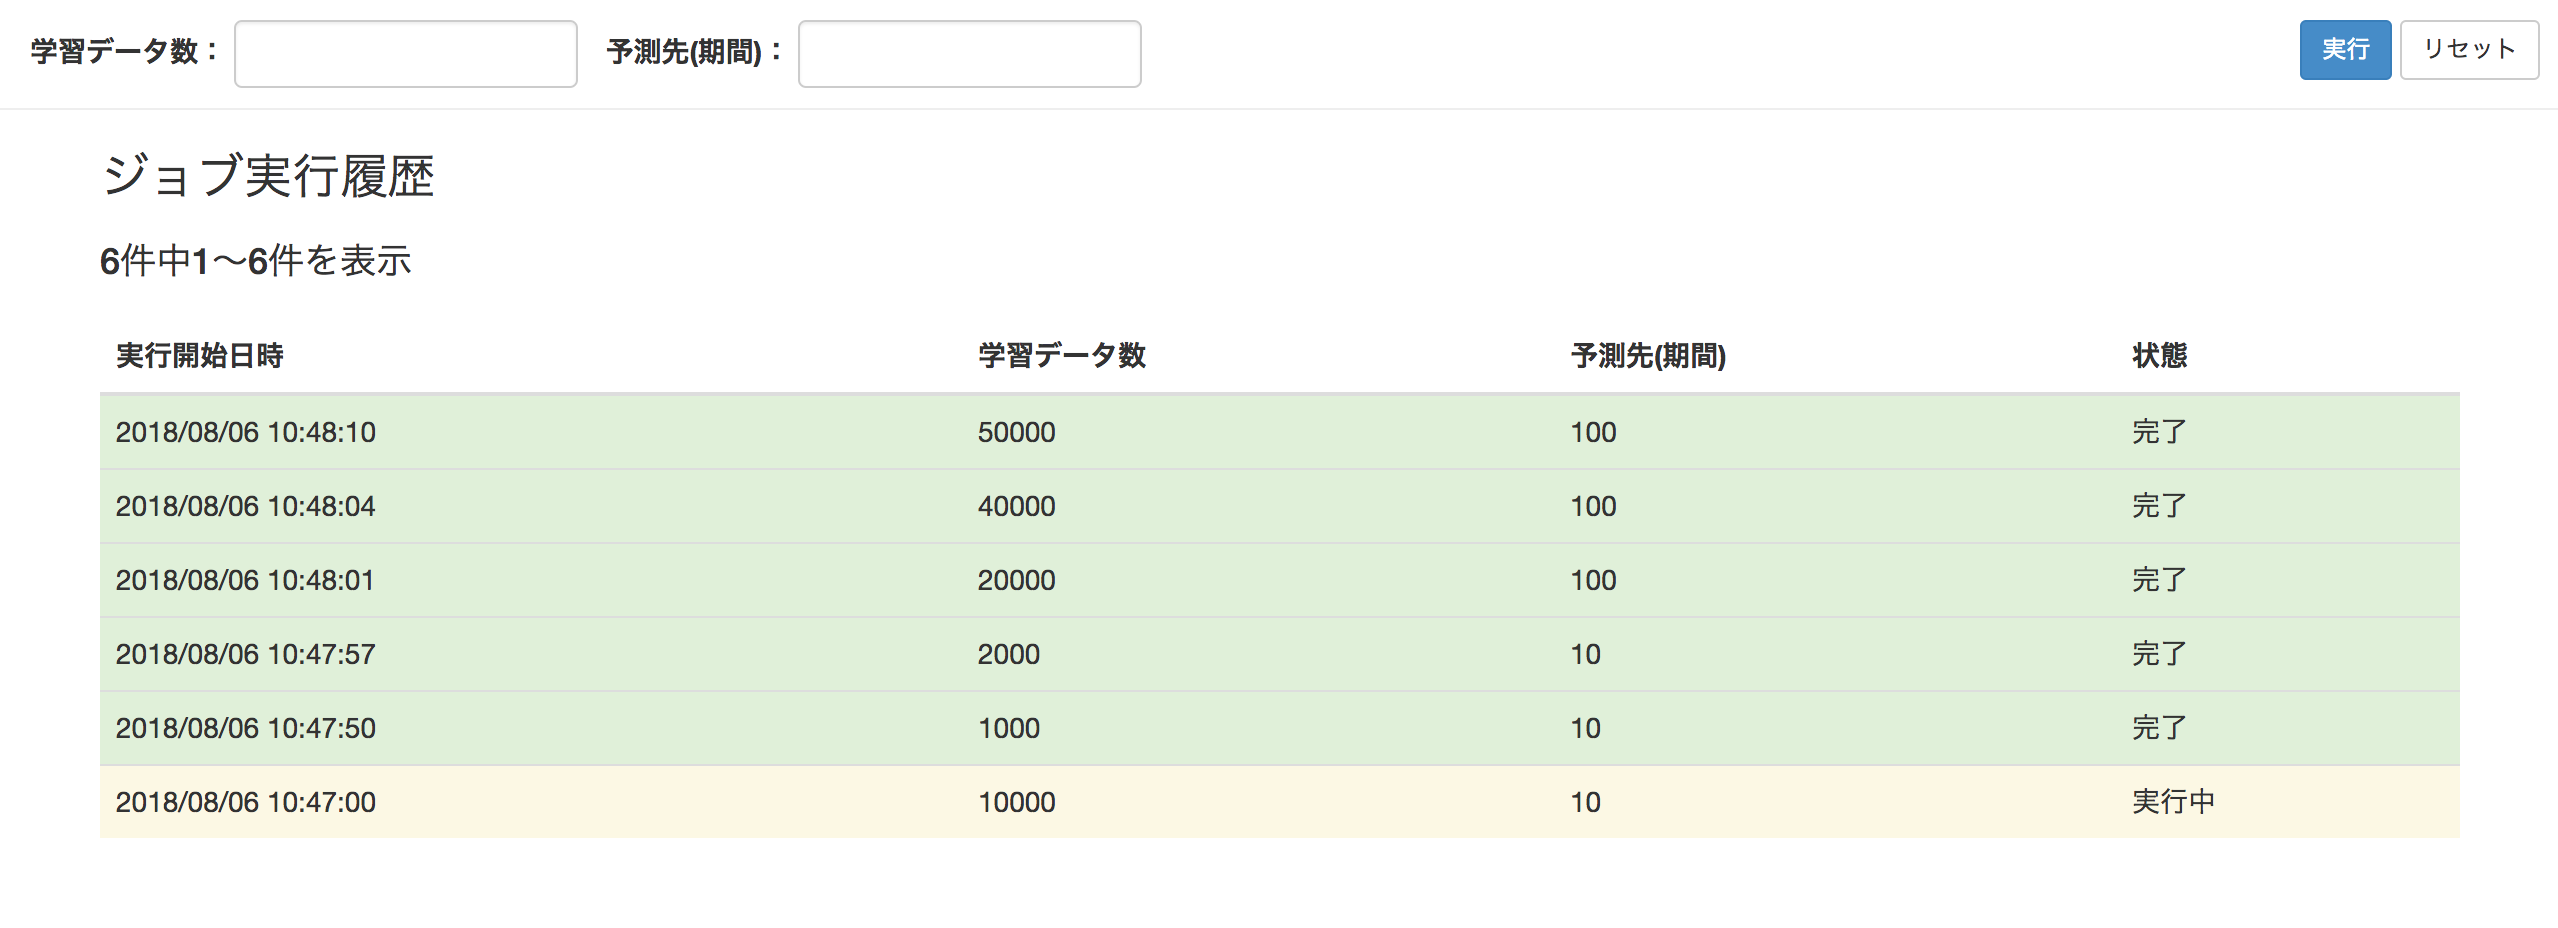
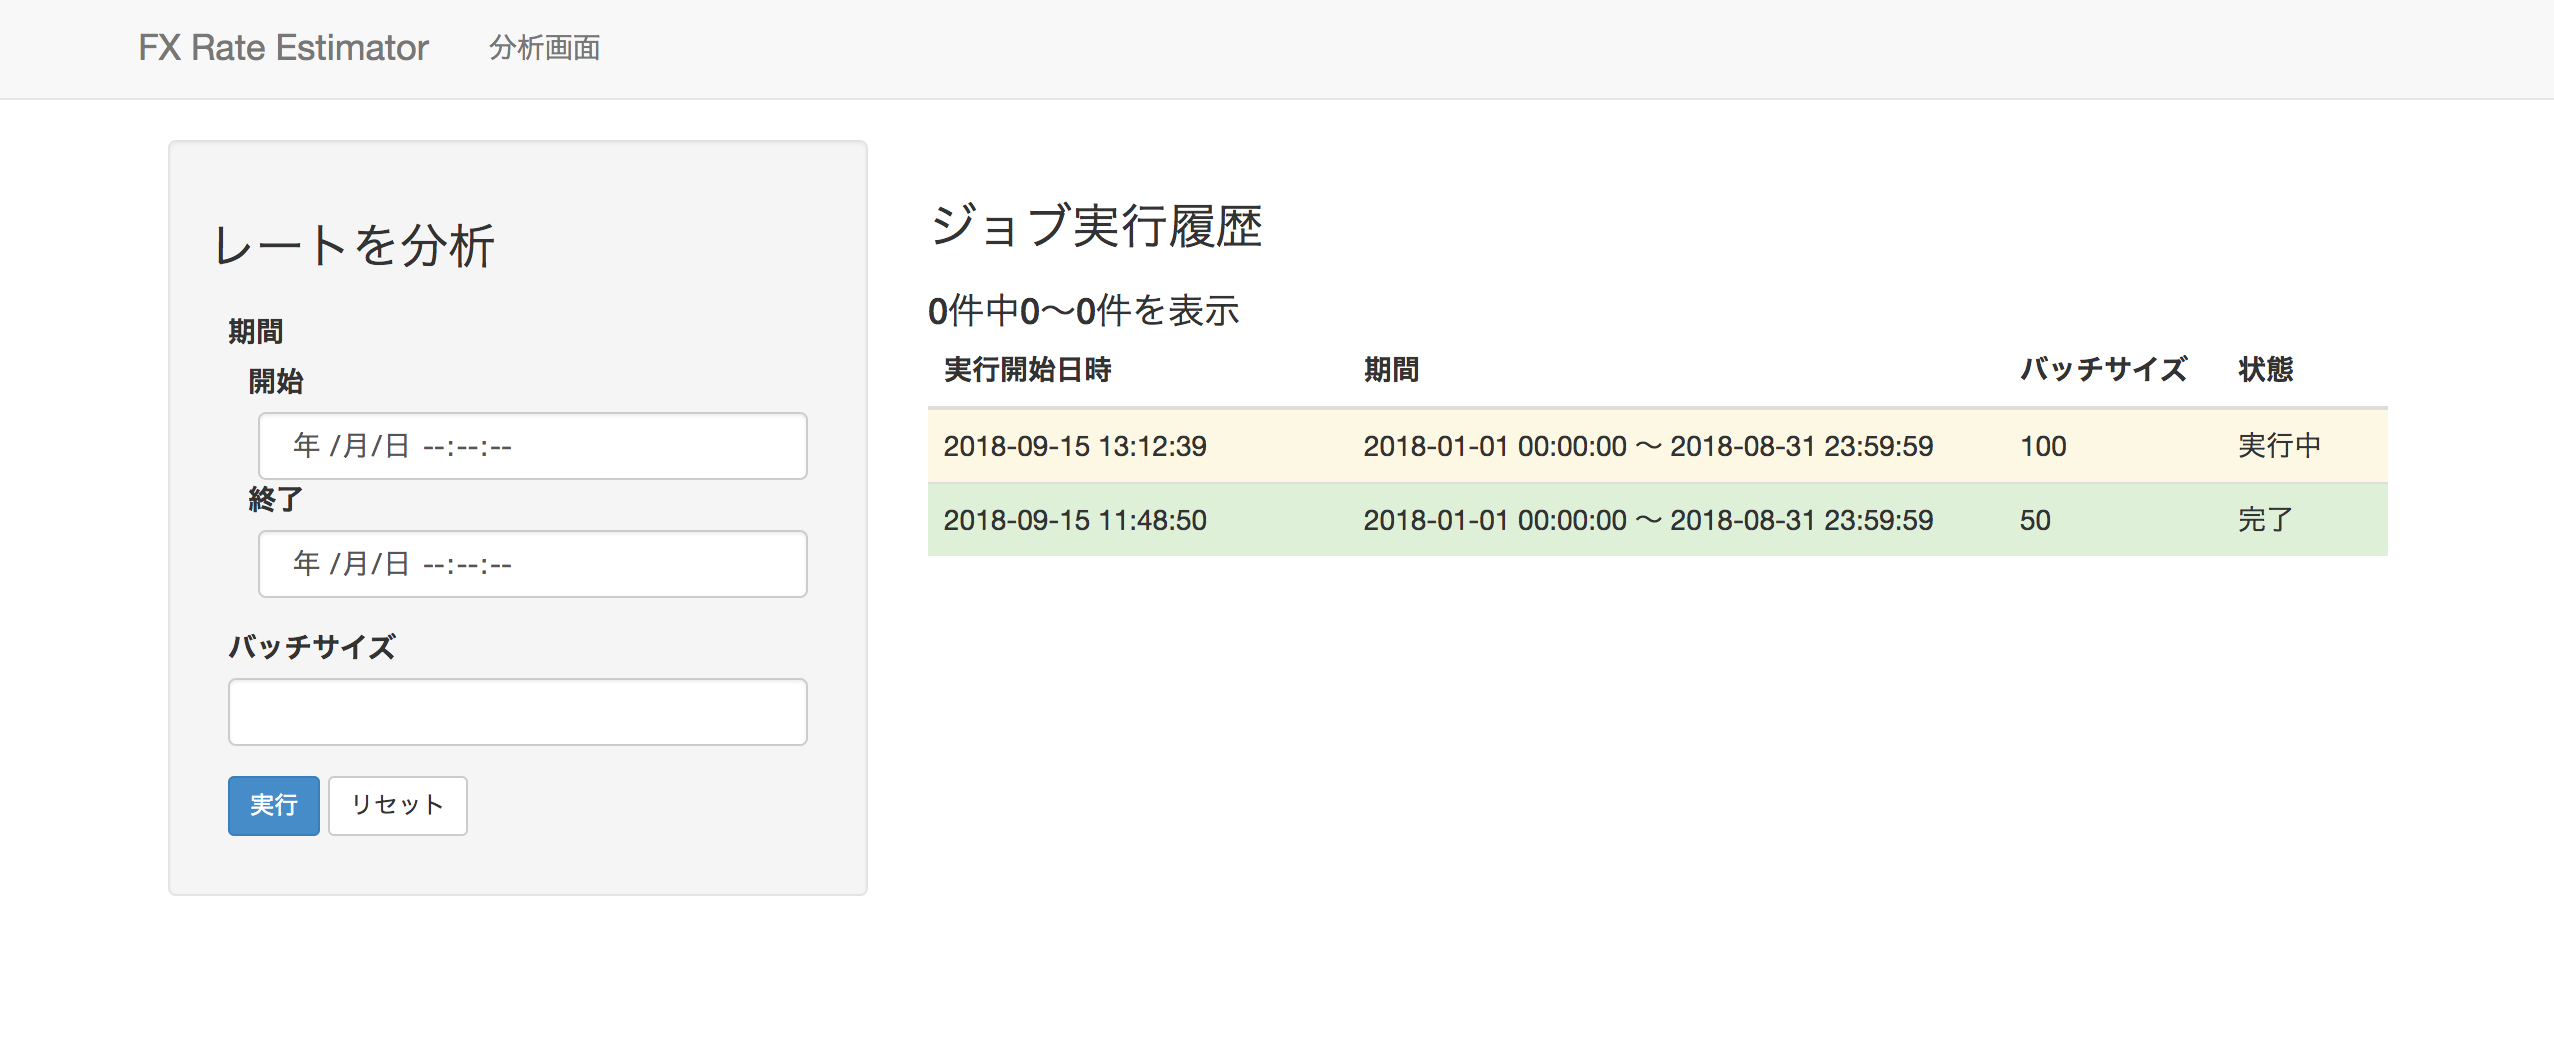
Regulus create dl script (#154)
* add new ui images

* update external spec

* modify scale

* indent

* update internal spec

* modify sequence description

* add schema

* modify ui description

* update CHANGELOG.md

diff --git a/fx-rate_estimator/regulus/internal.rst b/fx-rate_estimator/regulus/internal.rst
@@ -5,6 +5,7 @@
 
 - :ref:`reg-int-cls`
 - :ref:`reg-int-seq`
+- :ref:`reg-int-sch`
 
 .. _reg-int-cls:
 
@@ -40,32 +41,58 @@ MVCモデルを利用する
 シーケンス
 ----------
 
-- :ref:`reg-int-seq-analyze`
-- :ref:`reg-int-seq-read-job`
+- :ref:`reg-int-seq-execute-analysis`
+- :ref:`reg-int-seq-show-analyses`
 
-.. _reg-int-seq-analyze:
+.. _reg-int-seq-execute-analysis:
 
 過去のレースを分析する
 ^^^^^^^^^^^^^^^^^^^^^^
 
 *シーケンス図*
 
-.. uml:: umls/seq-analyze.uml
+.. uml:: umls/seq-execute-analysis.uml
 
 1. 利用者がパラメーターを入力して実行ボタンを押下する
-2. AnalysisViewがAnalysesControllerのlearnメソッドを実行する
-3. AnalysesControllerが非同期でAnalysisJobのperform_laterを実行した後，利用者に分析が実行されたことを通知する
-4. AnalysisJobが分析を完了させた後，AnalysisMailerのfinishedを実行して利用者にメールを送信する
+2. AnalysisViewがAnalysesControllerのexecuteメソッドを実行する
+3. AnalysesControllerがAnalysisを生成してジョブ情報を保存する
+4. AnalysesControllerが非同期でAnalysisJobのperform_laterを実行した後，利用者に分析が実行されたことを通知する
+5. 分析が完了したらAnalysisJobがAnalysisのstate属性をcompletedに更新する
+6. AnalysisMailerのfinishedを実行して利用者にメールを送信する
 
-.. _reg-int-seq-read-job:
+.. _reg-int-seq-show-analyses:
 
 ジョブ情報を確認する
 ^^^^^^^^^^^^^^^^^^^^
 
 *シーケンス図*
 
-.. uml:: umls/seq-read-job.uml
+.. uml:: umls/seq-show-analyses.uml
 
 1. 利用者が分析画面を開く
 2. AnalysisViewがAnalysesControllerのmanageメソッドを実行する
 3. AnalysesControllerがAnalysisクラスのallメソッドを実行してジョブ情報を取得する
+
+.. _reg-int-sch:
+
+スキーマ定義
+------------
+
+- :ref:`reg-int-sch-analyses`
+
+analysesテーブル
+^^^^^^^^^^^^^^^^
+
+分析ジョブ情報を登録するanalysesテーブルを定義する
+
+.. csv-table::
+   :header: "カラム", "型", "内容", "PRIMARY KEY", "NOT NULL"
+   :widths: 10, 10, 20, 20, 10
+
+   "id", "INTEGER", "分析ジョブのID", "○", "○"
+   "from", "DATETIME", "分析対象期間の開始日時",, "○"
+   "to", "DATETIME", "分析対象期間の終了日時",, "○"
+   "batch_size", "INTEGER", "バッチサイズ",, "○"
+   "state", "STRING", "分析の状態",, "○"
+   "created_at", "DATETIME", "分析ジョブ情報の作成日時", "", "○"
+   "updated_at", "DATETIME", "分析ジョブ情報の更新日時", "", "○"

diff --git a/fx-rate_estimator/regulus/external.rst b/fx-rate_estimator/regulus/external.rst
@@ -26,10 +26,11 @@
    :header: "属性名", "型", "意味", "フォーマット", "備考"
    :widths: 20, 10, 20, 30, 20
 
-   "実行開始日時", "文字列(string)", "分析を開始した日時", "年/月/日 時:分:秒",
-   "学習データ数", "自然数(integer)", "分析に利用したデータ数", "半角数字",
-   "予測先(期間)", "自然数(integer)", "何日先を予測するかを指定する", "半角数字",
-   "状態", "文字列(string)", "ジョブの状態", "「実行中」，「完了」のいずれか",
+   "実行開始日時", "日時", "分析を開始した日時", "年/月/日 時:分:秒",
+   "開始日時", "日時", "分析に使用するデータの最初の日時", "年/月/日 時:分:秒",
+   "終了日時", "日時", "何日先を予測するかを指定する", "年/月/日 時:分:秒",
+   "バッチサイズ", "自然数", "1回の学習に使用するデータサイズ", "半角数字"
+   "状態", "文字列", "ジョブの状態", "「実行中」，「完了」のいずれか",
 
 .. _reg-ext-ui:
 
@@ -44,11 +45,25 @@
 .. image:: images/analysis.png
    :alt: 分析画面
 
-- 画面上部にパラメーター入力フォームが表示される
+- 画面左部にパラメーター入力フォームが表示される
+
+  - 期間入力フォームを選択するとカレンダーが表示され，開始日時と終了日時を指定できる
+
+    .. image:: images/analysis_calendar.png
+       :alt: カレンダー
+       :scale: 35
 
   - 実行ボタンを押下すると分析が開始される
+  - 入力フォームの値に不正なものが含まれている場合はエラーダイアログが表示される
+
+    .. image:: images/analysis_failure.png
+       :alt: エラーダイアログ
+       :scale: 35
+
   - 分析が終了すると登録されているメールアドレスに通知される
 
-- 画面下部に分析ジョブの履歴一覧が表示される
+- 画面右部に実行したジョブ情報の一覧が表示される
 
-  - 25ジョブごとにページングされる
+  - 25ジョブごとにページングされている
+  - 実行開始日時の降順でソートされている
+  - 実行中のジョブは黄色，完了したジョブの行は緑色で表示される

diff --git a/CHANGELOG.md b/CHANGELOG.md
@@ -1,3 +1,6 @@
+# 2018/10/15
+- [Regulus] update version to 3.2.0
+
 # 2018/10/05
 - [Algieba] update version to 3.5.0
 
